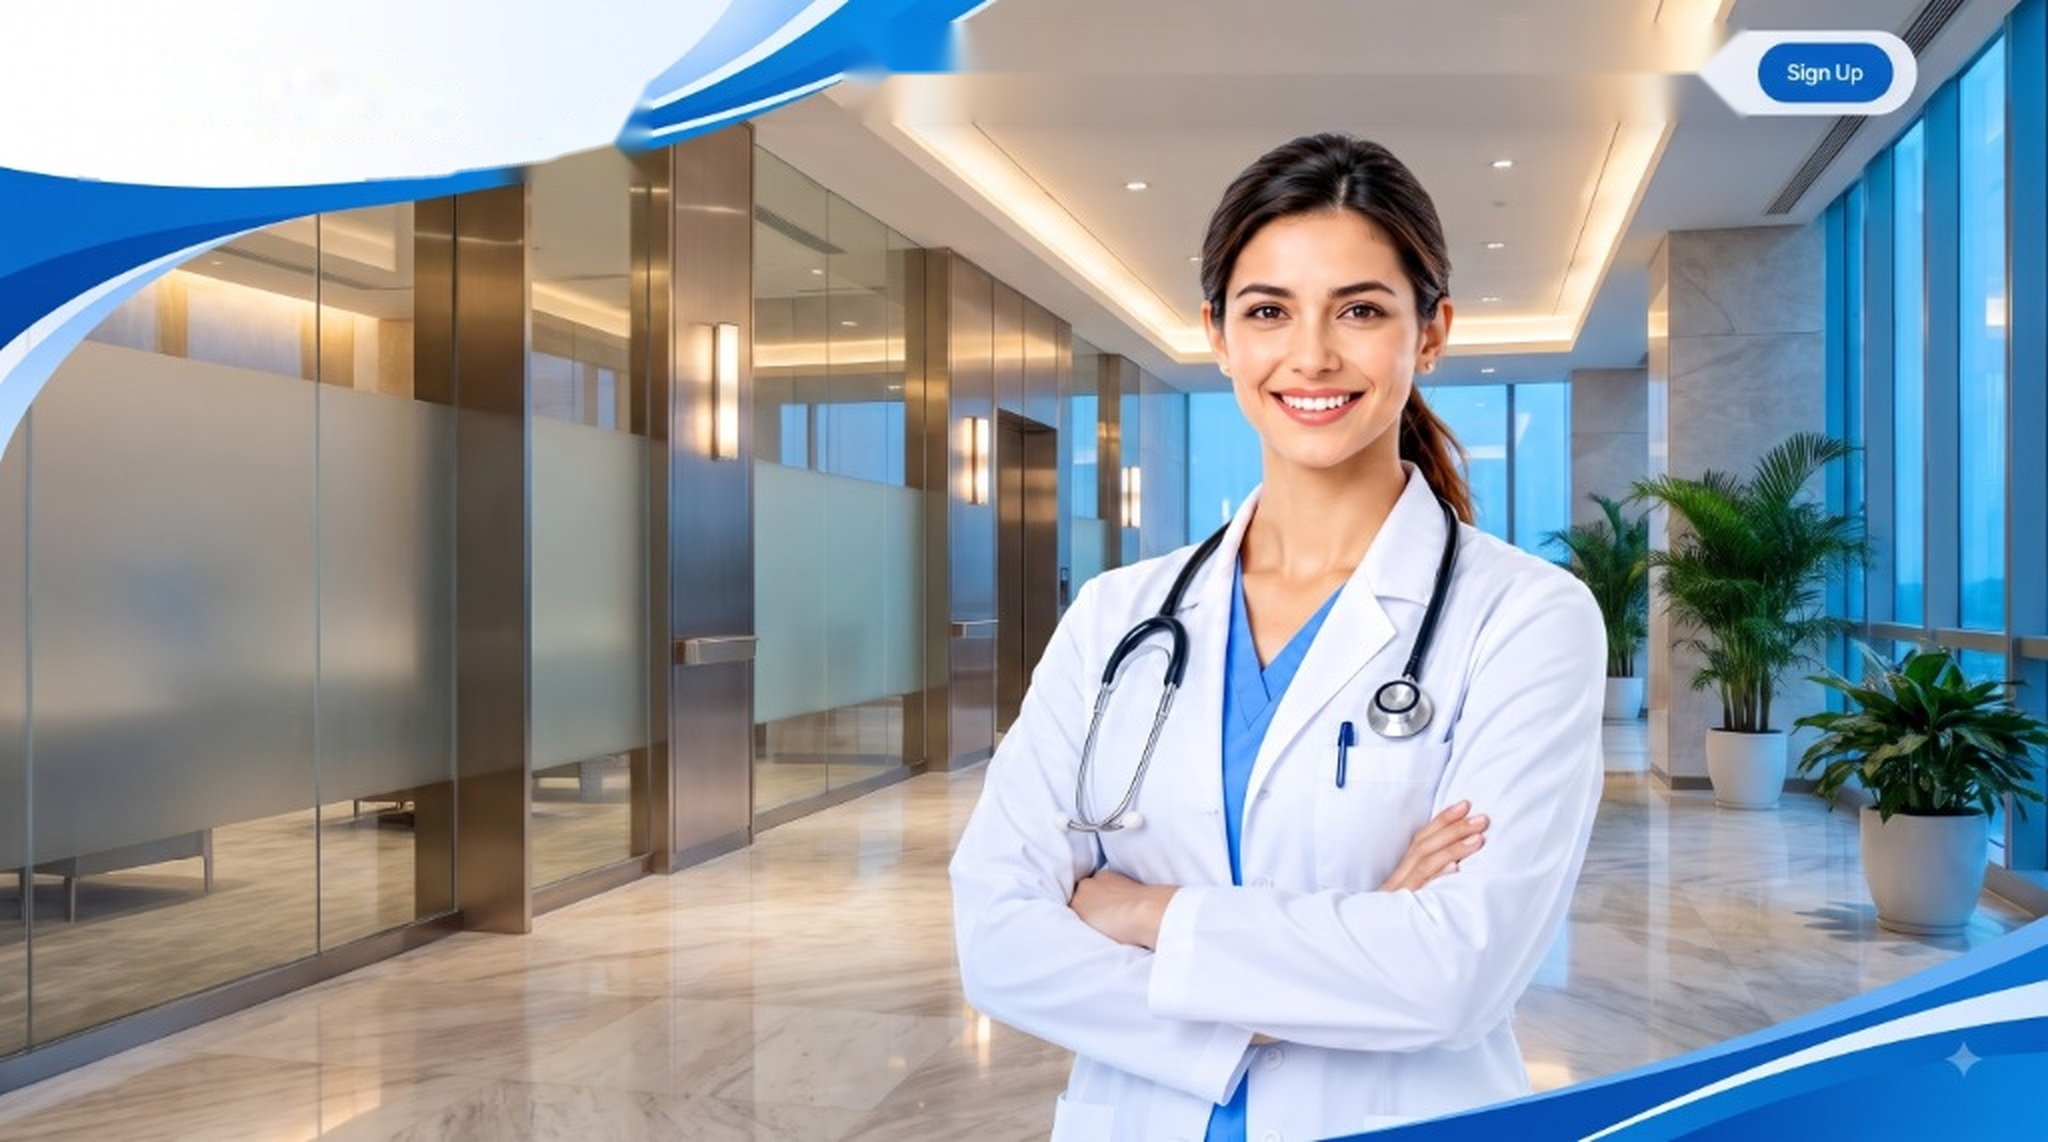
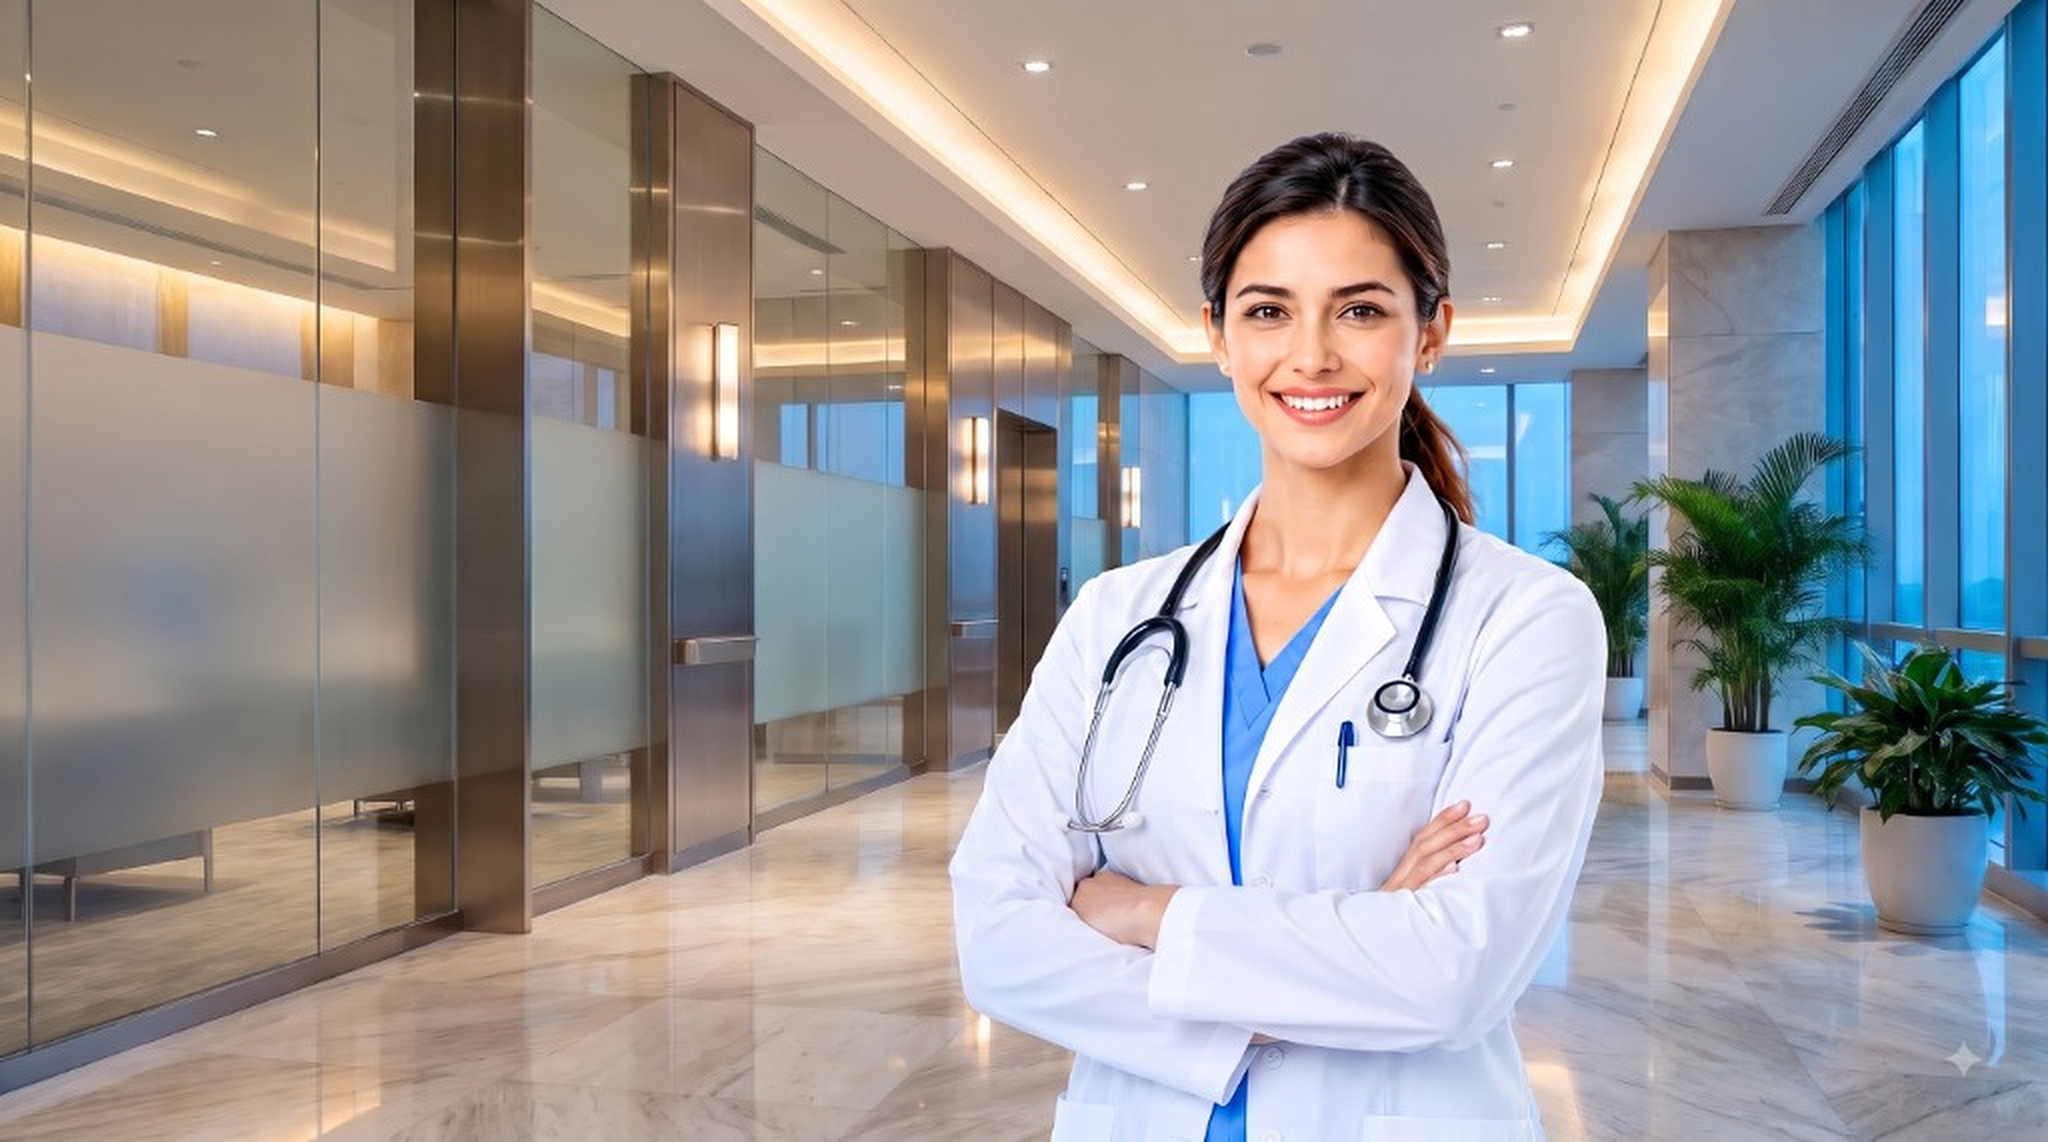
feat: Replace hero background with new high-resolution hospital lobby doctor photo

diff --git a/src/components/Hero.tsx b/src/components/Hero.tsx
@@ -42,16 +42,17 @@ export const Hero: React.FC<HeroProps> = ({
       {/* 2. TOP NAVIGATION BAR (Exact visual layout built in React code) */}
       <div className="relative z-20 w-full max-w-7xl mx-auto px-4 sm:px-6 lg:px-8 pt-3 sm:pt-4 md:pt-5 flex items-center justify-between">
         
-        {/* Top-Left Logo inside the white swoosh */}
+        {/* Top-Left Logo inside matching frosted white pill */}
         <a 
           href="#" 
           onClick={(e) => {
             e.preventDefault();
             window.scrollTo({ top: 0, behavior: 'smooth' });
           }}
-          className="flex items-center shrink-0 group pl-1 sm:pl-3 transition-transform duration-200 hover:scale-[1.02]"
+          className="flex items-center shrink-0 group bg-white/95 backdrop-blur-md px-3 sm:px-4 py-1.5 sm:py-2 rounded-2xl shadow-[0_4px_20px_-2px_rgba(0,0,0,0.08)] border border-slate-200/80 transition-all duration-200 hover:scale-[1.02] hover:bg-white"
+          title="Kanha Hospitals - Urology, Nephrology & 24 Multi-Specialties"
         >
-          <KanhaLogo className="h-10 sm:h-12 md:h-14 w-auto drop-shadow-sm" />
+          <KanhaLogo className="h-8 sm:h-10 md:h-12 w-auto drop-shadow-sm" />
         </a>
 
         {/* Top-Right Floating White Pill Navbar (Desktop) */}
